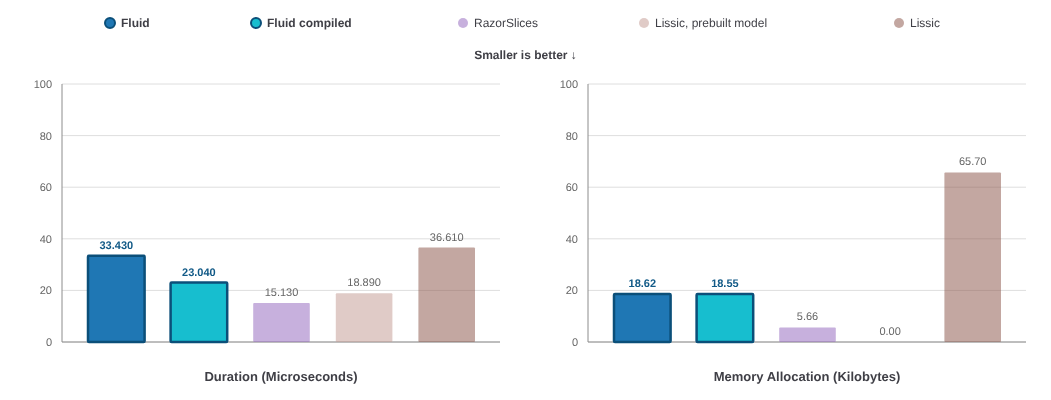
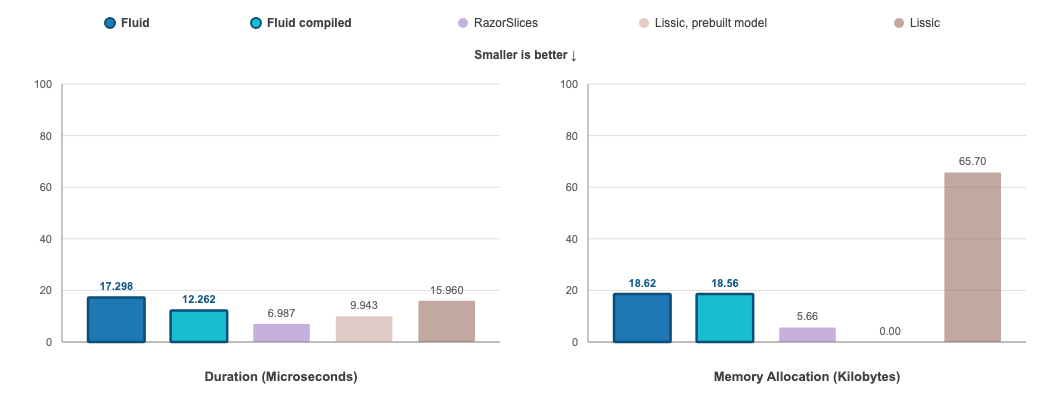
Refresh the README benchmark results and charts

diff --git a/README.md b/README.md
@@ -1997,7 +1997,7 @@ TL;DR — Fluid is faster and allocates less memory than all other well-known .N
 
 **Parse: Parses a simple HTML template containing filters and properties**
 
-Scriban takes 55% longer to parse and allocates over 3 times as much memory as Fluid.
+Scriban takes 52% longer to parse and allocates almost 3 times as much memory as Fluid.
 
 ![Parse benchmark comparison](Assets/benchmark-parse.png)
 
@@ -2009,14 +2009,14 @@ Scriban takes almost twice as long to parse and allocates over 3.5 times as much
 
 **Render: Renders a simple HTML template containing filters and properties, with 100 elements**
 
-DotLiquid takes over 10 times as long to render and allocates 18 times as much memory as Fluid.
-The second best, Handlebars (Mustache), takes 34% longer and allocates over 3 times as much memory.
+DotLiquid takes almost 10 times as long to render and allocates 18 times as much memory as Fluid.
+The second best, Handlebars (Mustache), takes 26% longer and allocates over 3 times as much memory.
 
 ![Render benchmark comparison](Assets/benchmark-render.png)
 
-Tested on 10/20/2026 with
+Tested on 10/29/2026 with
 - Parlot 2.0.0
-- Scriban 7.5.1
+- Scriban 7.5.3
 - DotLiquid 2.3.260
 - Handlebars.Net 2.4.3
 
@@ -2027,31 +2027,31 @@ Tested on 10/20/2026 with
 <summary>Benchmark.NET data</summary>
 
 ``` text
-BenchmarkDotNet v0.15.8, macOS Sequoia 15.8.1 (24H32) [Darwin 24.6.0]
+BenchmarkDotNet v0.15.8, macOS Sequoia 15.8.2 (24H232) [Darwin 24.6.0]
 Apple M4 Pro, 1 CPU, 14 logical and 14 physical cores
-.NET SDK 10.0.400
+.NET SDK 11.0.100-rc.2.26504.105
   [Host]   : .NET 10.0.11 (10.0.11, 10.0.1126.37416), Arm64 RyuJIT armv8.0-a
   ShortRun : .NET 10.0.11 (10.0.11, 10.0.1126.37416), Arm64 RyuJIT armv8.0-a
 
 Job=ShortRun  IterationCount=3  LaunchCount=1
 WarmupCount=3
 
-| Method                       | Mean       | Error         | StdDev      | Ratio  | RatioSD | Gen0    | Gen1    | Allocated | Alloc Ratio |
-|----------------------------- |-----------:|--------------:|------------:|-------:|--------:|--------:|--------:|----------:|------------:|
-| Fluid_Parse                  |   1.527 us |     0.1758 us |   0.0096 us |   1.00 |    0.01 |  0.4005 |  0.0038 |   3.28 KB |        1.00 |
-| Scriban_Parse                |   2.363 us |     0.1588 us |   0.0087 us |   1.55 |    0.01 |  1.2245 |  0.0648 |  10.01 KB |        3.05 |
-| DotLiquid_Parse              |   3.889 us |     0.2441 us |   0.0134 us |   2.55 |    0.02 |  1.9608 |  0.0229 |  16.05 KB |        4.89 |
-| Handlebars_Parse             | 480.942 us | 1,736.1228 us |  95.1627 us | 315.06 |   54.02 | 15.6250 |  7.8125 | 133.89 KB |       40.80 |
-|                              |            |               |             |        |         |         |         |           |             |
-| Fluid_ParseBig               |   6.864 us |     0.2669 us |   0.0146 us |   1.00 |    0.00 |  1.6022 |  0.0534 |  13.09 KB |        1.00 |
-| Scriban_ParseBig             |  13.432 us |     0.8950 us |   0.0491 us |   1.96 |    0.01 |  5.8746 |  1.1749 |  48.07 KB |        3.67 |
-| DotLiquid_ParseBig           |  20.138 us |     1.8344 us |   0.1005 us |   2.93 |    0.01 | 11.4136 |  0.5188 |  93.46 KB |        7.14 |
-| Handlebars_ParseBig          | 387.351 us | 1,895.4987 us | 103.8987 us |  56.43 |   13.11 | 16.6016 |  7.8125 |    140 KB |       10.69 |
-|                              |            |               |             |        |         |         |         |           |             |
-| Fluid_Render                 |  15.992 us |     1.8538 us |   0.1016 us |   1.00 |    0.01 |  4.4250 |  0.0610 |  36.27 KB |        1.00 |
-| Scriban_Render               |  71.868 us |     9.3512 us |   0.5126 us |   4.49 |    0.04 | 17.0898 |  2.4414 | 140.74 KB |        3.88 |
-| DotLiquid_Render             | 162.893 us |    13.5017 us |   0.7401 us |  10.19 |    0.07 | 80.5664 | 15.3809 | 659.18 KB |       18.17 |
-| Handlebars_Render            |  21.485 us |     0.1949 us |   0.0107 us |   1.34 |    0.01 | 14.5874 |       - | 119.31 KB |        3.29 |
+| Method              | Mean       | Error         | StdDev     | Ratio  | RatioSD | Gen0    | Gen1    | Allocated | Alloc Ratio |
+|-------------------- |-----------:|--------------:|-----------:|-------:|--------:|--------:|--------:|----------:|------------:|
+| Fluid_Parse         |   1.640 us |     0.8571 us |  0.0470 us |   1.00 |    0.03 |  0.4101 |  0.0019 |   3.36 KB |        1.00 |
+| Scriban_Parse       |   2.489 us |     0.4374 us |  0.0240 us |   1.52 |    0.04 |  1.2245 |  0.0648 |  10.01 KB |        2.98 |
+| DotLiquid_Parse     |   4.030 us |     0.6436 us |  0.0353 us |   2.46 |    0.06 |  1.9608 |  0.0229 |  16.05 KB |        4.78 |
+| Handlebars_Parse    | 492.983 us |   974.5709 us | 53.4195 us | 300.71 |   29.17 | 15.6250 |  7.8125 | 132.59 KB |       39.47 |
+|                     |            |               |            |        |         |         |         |           |             |
+| Fluid_ParseBig      |   7.198 us |     1.9825 us |  0.1087 us |   1.00 |    0.02 |  1.6556 |  0.0610 |  13.55 KB |        1.00 |
+| Scriban_ParseBig    |  14.248 us |     2.6343 us |  0.1444 us |   1.98 |    0.03 |  5.8746 |  1.1749 |  48.07 KB |        3.55 |
+| DotLiquid_ParseBig  |  20.788 us |     1.8463 us |  0.1012 us |   2.89 |    0.04 | 11.4136 |  0.5188 |  93.46 KB |        6.90 |
+| Handlebars_ParseBig | 375.286 us | 1,012.0915 us | 55.4761 us |  52.14 |    6.71 | 16.6016 |  7.8125 | 140.21 KB |       10.35 |
+|                     |            |               |            |        |         |         |         |           |             |
+| Fluid_Render        |  17.490 us |     2.2822 us |  0.1251 us |   1.00 |    0.01 |  4.4250 |  0.0610 |  36.27 KB |        1.00 |
+| Scriban_Render      |  68.655 us |    17.7318 us |  0.9719 us |   3.93 |    0.05 | 17.0898 |  2.4414 | 140.73 KB |        3.88 |
+| DotLiquid_Render    | 169.235 us |    16.6873 us |  0.9147 us |   9.68 |    0.08 | 80.5664 | 15.3809 | 659.18 KB |       18.17 |
+| Handlebars_Render   |  22.077 us |     5.2115 us |  0.2857 us |   1.26 |    0.02 | 14.5874 |       - | 119.31 KB |        3.29 |
 ```
 
 </details>
@@ -2062,13 +2062,13 @@ Some engines compile templates into the application instead of reading them at r
 
 **Render: renders the product template to a string**
 
-Compiled Fluid templates take 30% less time than parsed ones and allocate the same memory. RazorSlices takes 22% less time than parsed Fluid templates and allocates 51% more, and Lissic takes as long and allocates 2.3 times as much. Hand-written C# takes 59% less time, for reference.
+Compiled Fluid templates take 31% less time than parsed ones and allocate the same memory. RazorSlices takes 40% less time than parsed Fluid templates and allocates 51% more, and Lissic takes 16% less time and allocates 2.3 times as much. Hand-written C# takes 75% less time, for reference.
 
 ![Compiled templates and static engines render benchmark comparison](Assets/benchmark-static-render.png)
 
 **Render to UTF-8: renders the product template as UTF-8 to a buffer, like an HTTP response body**
 
-Compiled Fluid templates take 31% less time than parsed ones. RazorSlices is the fastest engine, taking 55% less time than parsed Fluid templates and allocating 70% less. Lissic takes 10% longer and allocates 3.5 times as much when each render copies the products into the template classes it generates. When the same model is built once and reused, it takes 43% less time and allocates nothing.
+Compiled Fluid templates take 29% less time than parsed ones. RazorSlices is the fastest engine, taking 60% less time than parsed Fluid templates and allocating 70% less. Lissic takes 8% less time and allocates 3.5 times as much when each render copies the products into the template classes it generates. When the same model is built once and reused, it takes 43% less time and allocates nothing.
 
 ![Compiled templates and static engines UTF-8 render benchmark comparison](Assets/benchmark-static-render-utf8.png)
 
@@ -2078,7 +2078,7 @@ These engines are faster because the compiler reads the template, not the applic
 - RazorSlices templates are Razor, so they contain C# code and can never come from users. RazorSlices requires ASP.NET Core.
 - Lissic templates have no expressions or conditions, only a choice between branches by a value. The data has to be copied into the classes it generates, and values are only HTML-encoded with a filter.
 
-Tested on 10/29/2026 on a cloud VM, so compare the ratios rather than the times with the results above, with
+Tested on 10/29/2026 on the same machine as the results above, with
 - RazorSlices 0.12.2
 - Lissic 0.1.4
 
@@ -2088,27 +2088,27 @@ Tested on 10/29/2026 on a cloud VM, so compare the ratios rather than the times 
 
 ```
 
-BenchmarkDotNet v0.15.8, Linux Ubuntu 24.04.5 LTS (Noble Numbat)
-Intel Xeon Processor 2.10GHz, 1 CPU, 4 logical and 4 physical cores
-.NET SDK 10.0.403
-  [Host]     : .NET 10.0.14 (10.0.14, 10.0.1426.52326), X64 RyuJIT x86-64-v4
-  DefaultJob : .NET 10.0.14 (10.0.14, 10.0.1426.52326), X64 RyuJIT x86-64-v4
+BenchmarkDotNet v0.15.8, macOS Sequoia 15.8.2 (24H232) [Darwin 24.6.0]
+Apple M4 Pro, 1 CPU, 14 logical and 14 physical cores
+.NET SDK 11.0.100-rc.2.26504.105
+  [Host]     : .NET 10.0.11 (10.0.11, 10.0.1126.37416), Arm64 RyuJIT armv8.0-a
+  DefaultJob : .NET 10.0.11 (10.0.11, 10.0.1126.37416), Arm64 RyuJIT armv8.0-a
 
 
 ```
-| Method                           | Categories | Mean     | Error    | StdDev   | Median   | Ratio | RatioSD | Gen0   | Gen1   | Allocated | Alloc Ratio |
-|--------------------------------- |----------- |---------:|---------:|---------:|---------:|------:|--------:|-------:|-------:|----------:|------------:|
-| Fluid_Render                     | String     | 37.32 μs | 0.978 μs | 2.838 μs | 36.43 μs |  1.01 |    0.10 | 0.2441 |      - |   37144 B |        1.00 |
-| Fluid_SourceGenerated_Render     | String     | 25.85 μs | 0.549 μs | 1.593 μs | 25.61 μs |  0.70 |    0.07 | 0.2441 |      - |   37080 B |        1.00 |
-| RazorSlices_Render               | String     | 29.08 μs | 0.577 μs | 1.255 μs | 28.88 μs |  0.78 |    0.07 | 0.3967 | 0.0305 |   56112 B |        1.51 |
-| Lissic_Render                    | String     | 36.80 μs | 0.718 μs | 0.799 μs | 36.71 μs |  0.99 |    0.07 | 0.6104 | 0.0610 |   84744 B |        2.28 |
-| HandWritten_Render               | String     | 15.18 μs | 0.316 μs | 0.921 μs | 15.06 μs |  0.41 |    0.04 | 0.3052 |      - |   44720 B |        1.20 |
-|                                  |            |          |          |          |          |       |         |        |        |           |             |
-| Fluid_RenderUtf8                 | Utf8       | 33.43 μs | 0.906 μs | 2.526 μs | 32.64 μs |  1.01 |    0.10 | 0.1221 |      - |   19064 B |        1.00 |
-| Fluid_SourceGenerated_RenderUtf8 | Utf8       | 23.04 μs | 0.471 μs | 1.366 μs | 22.70 μs |  0.69 |    0.06 | 0.1221 |      - |   19000 B |        1.00 |
-| RazorSlices_RenderUtf8           | Utf8       | 15.13 μs | 0.316 μs | 0.921 μs | 14.97 μs |  0.45 |    0.04 | 0.0305 |      - |    5792 B |        0.30 |
-| Lissic_RenderUtf8                | Utf8       | 36.61 μs | 0.731 μs | 1.977 μs | 36.29 μs |  1.10 |    0.10 | 0.4883 | 0.0610 |   67280 B |        3.53 |
-| Lissic_PrebuiltModel_RenderUtf8  | Utf8       | 18.89 μs | 0.420 μs | 1.239 μs | 18.55 μs |  0.57 |    0.05 |      - |      - |         - |        0.00 |
+| Method                           | Categories | Mean      | Error     | StdDev    | Ratio | RatioSD | Gen0    | Gen1   | Allocated | Alloc Ratio |
+|--------------------------------- |----------- |----------:|----------:|----------:|------:|--------:|--------:|-------:|----------:|------------:|
+| Fluid_Render                     | String     | 18.123 μs | 0.2042 μs | 0.1810 μs |  1.00 |    0.01 |  4.4250 | 0.0610 |   37145 B |        1.00 |
+| Fluid_SourceGenerated_Render     | String     | 12.477 μs | 0.2108 μs | 0.1972 μs |  0.69 |    0.01 |  4.4098 | 0.0458 |   37081 B |        1.00 |
+| RazorSlices_Render               | String     | 10.796 μs | 0.1158 μs | 0.1083 μs |  0.60 |    0.01 |  6.6833 | 0.7324 |   56112 B |        1.51 |
+| Lissic_Render                    | String     | 15.284 μs | 0.0440 μs | 0.0344 μs |  0.84 |    0.01 | 10.1013 | 1.9836 |   84744 B |        2.28 |
+| HandWritten_Render               | String     |  4.619 μs | 0.0862 μs | 0.0807 μs |  0.25 |    0.00 |  5.3329 | 0.3281 |   44720 B |        1.20 |
+|                                  |            |           |           |           |       |         |         |        |           |             |
+| Fluid_RenderUtf8                 | Utf8       | 17.298 μs | 0.0614 μs | 0.0544 μs |  1.00 |    0.00 |  2.2583 | 0.0305 |   19065 B |        1.00 |
+| Fluid_SourceGenerated_RenderUtf8 | Utf8       | 12.262 μs | 0.0861 μs | 0.0719 μs |  0.71 |    0.00 |  2.2583 | 0.0305 |   19001 B |        1.00 |
+| RazorSlices_RenderUtf8           | Utf8       |  6.987 μs | 0.0866 μs | 0.0810 μs |  0.40 |    0.00 |  0.6866 |      - |    5792 B |        0.30 |
+| Lissic_RenderUtf8                | Utf8       | 15.960 μs | 0.3068 μs | 0.2720 μs |  0.92 |    0.02 |  8.0261 | 1.3733 |   67280 B |        3.53 |
+| Lissic_PrebuiltModel_RenderUtf8  | Utf8       |  9.943 μs | 0.0649 μs | 0.0542 μs |  0.57 |    0.00 |       - |      - |         - |        0.00 |
 
 </details>
 
